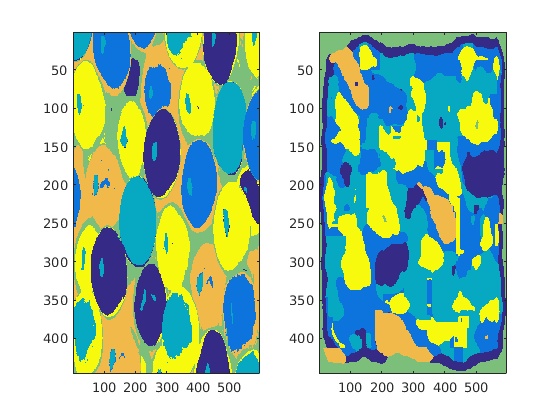
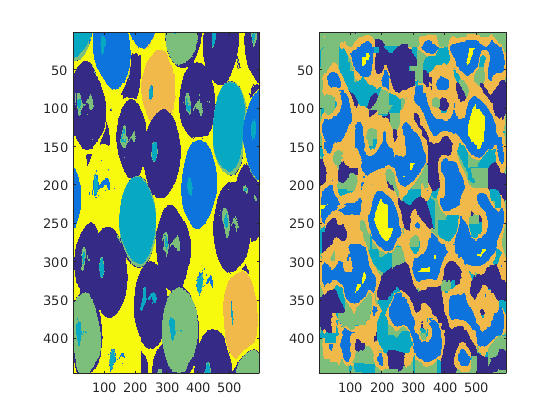
looks great; snake needs more tuning

diff --git a/segmentMain.m b/segmentMain.m
@@ -8,7 +8,7 @@ K = im2double(imread('images/snake.jpg'));
 L = im2double(imread('images/car.jpg'));
 
 % Parameters to be tuned.
-k = 6;
+k = 8;
 
 % Load the filter bank.
 load('data/filterBank.mat', 'F');
@@ -43,7 +43,7 @@ T = createTextons(S, F, k);
 fprintf('textons dimensions: (%s)\n', num2str(size(T)))
 
 % Now for the experiments...
-[colorLabelIm, textureLabelIm] = compareSegmentations(I, F, T, 65, 6, 6);
+[colorLabelIm, textureLabelIm] = compareSegmentations(I, F, T, 35, 6, 6);
 figure;
 title('Gumballs (color vs texture)')
 subplot(1, 2, 1); imagesc(colorLabelIm);
@@ -51,7 +51,7 @@ subplot(1, 2, 2); imagesc(textureLabelIm);
 print('images/gumballs_results.png', '-dpng', '-r0');
 disp('Gumballs figure saved.')
 
-[colorLabelIm, textureLabelIm] = compareSegmentations(J, F, T, 45, 6, 6);
+[colorLabelIm, textureLabelIm] = compareSegmentations(J, F, T, 35, 6, 6);
 figure;
 title('Twins (color vs texture)')
 subplot(1, 2, 1); imagesc(colorLabelIm);
@@ -59,7 +59,7 @@ subplot(1, 2, 2); imagesc(textureLabelIm);
 print('images/twins_results.png', '-dpng', '-r0');
 disp('Twins figure saved.')
 
-[colorLabelIm, textureLabelIm] = compareSegmentations(K, F, T, 45, 3, 3);
+[colorLabelIm, textureLabelIm] = compareSegmentations(K, F, T, 35, 6, 6);
 figure;
 title('Snake (color vs texture)')
 subplot(1, 2, 1); imagesc(colorLabelIm);
@@ -67,7 +67,7 @@ subplot(1, 2, 2); imagesc(textureLabelIm);
 print('images/snake_results.png', '-dpng', '-r0');
 disp('Snake figure saved.')
 
-[colorLabelIm, textureLabelIm] = compareSegmentations(L, F, T, 45, 6, 6);
+[colorLabelIm, textureLabelIm] = compareSegmentations(L, F, T, 35, 6, 6);
 figure;
 title('Car (color vs texture)')
 subplot(1, 2, 1); imagesc(colorLabelIm);

diff --git a/extractTextonHists.m b/extractTextonHists.m
@@ -27,7 +27,16 @@ function [featIm] = extractTextonHists(origIm, bank, textons, winSize)
       winc = max([1 j - r]):min([j + r w]);
       W = L(winr, winc); % window of labels (1 to k)
       W = reshape(W, size(winr, 2) * size(winc, 2), 1);
-      featIm(i, j, :) = hist(W, k);
+      
+      % Get histogram for texton distribution around the current pixel.
+      % Normalize it to min and max of the distribution.
+      H = hist(W, k);
+      minh = min(H);
+      maxh = max(H);
+      if minh == maxh
+        H = (H - minh) ./ (maxh - minh);
+      end
+      featIm(i, j, :) = H;
     end
   end
 return
